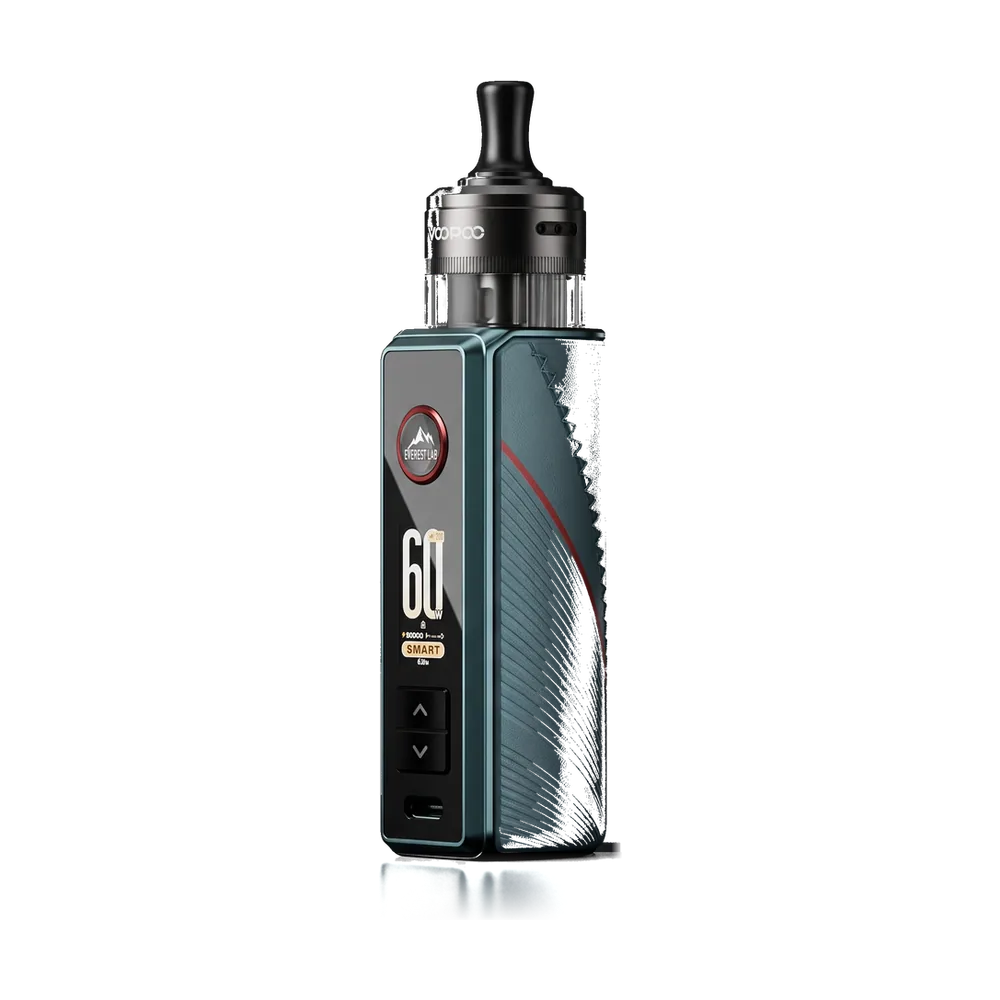
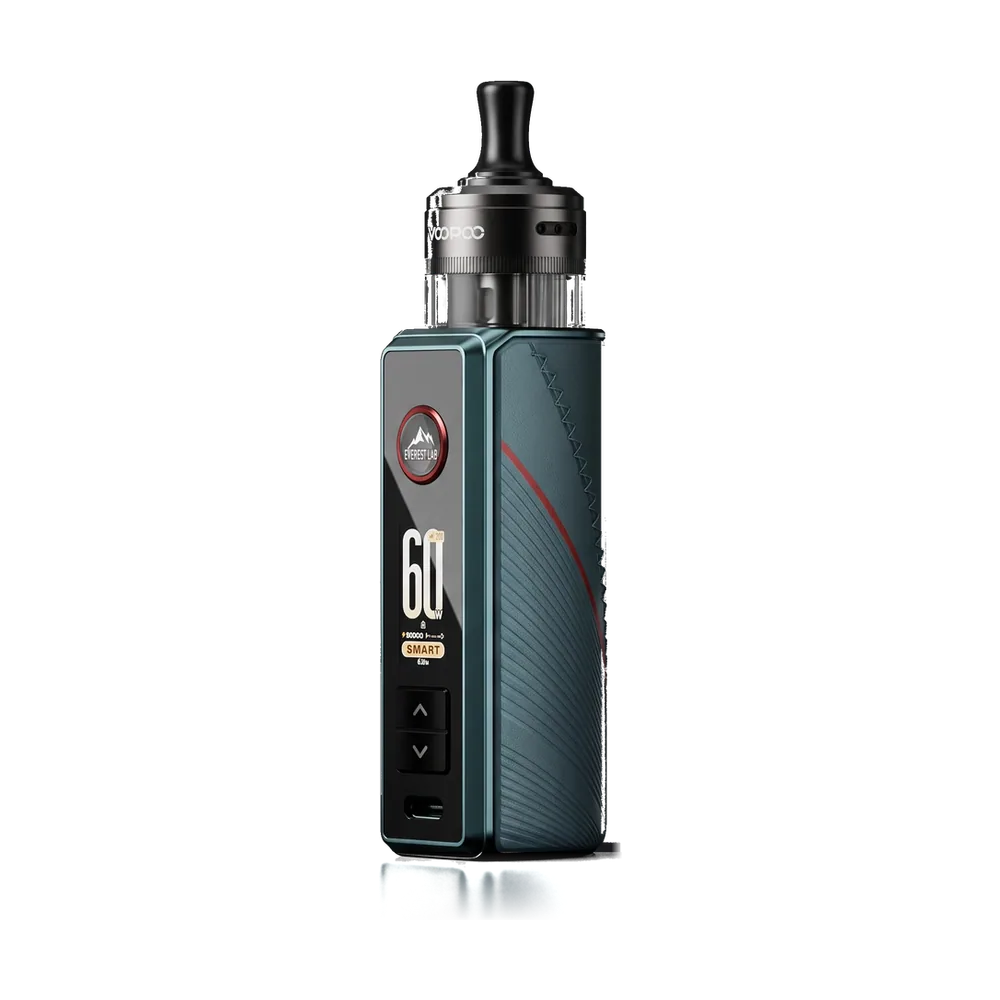
image: Drag S3 Brooklyn Gray re-keyed (side panel solid, matte2 --protect) + Cherry Pink specks cleared, line-up 2 rebuilt; comment no longer cites the unverified maker listing (checker #337)

Changed region(s): [[0.496, 0.558, 0.62, 0.868], [0.558, 0.341, 0.62, 0.527]]

diff --git a/src/data/products/voopoo.ts b/src/data/products/voopoo.ts
@@ -956,8 +956,9 @@ export const voopooProducts: Product[] = [
       { id: "green", name: "Green", swatchHex: "#6f7c69", image: { src: "/assets/products/drag-s3/variant-green-v6.webp", alt: "VOOPOO DRAG S3, Green", ownFloor: true } },
       { id: "brown", name: "Brown", swatchHex: "#7b4929", image: { src: "/assets/products/drag-s3/variant-brown-v5.webp", alt: "VOOPOO DRAG S3, Brown", ownFloor: true } },
       { id: "metal-gray", name: "Metal Gray", swatchHex: "#646b6c", image: { src: "/assets/products/drag-s3/variant-metal-gray-v5.webp", alt: "VOOPOO DRAG S3, Metal Gray", ownFloor: true } },
-      // 07/10 eve: the 3 colours VOOPOO added (vapeuk.co.uk + legionofvapers.com list the same 10; shop.voopoo.com's search listing
-      // marks them NEW — the maker page itself was not reachable from the research tools) — catalog completeness rule. Image 1 = legionofvapers.com's photo (vapevo has only the old 7), same S2 studio recipe;
+      // 07/10 eve: 3 more DRAG S3 colours (vapeuk.co.uk + legionofvapers.com list the same 10; the maker page was not reachable
+      // from the research tools) — catalog completeness rule. Image 1 = legionofvapers.com's photo (vapevo has only the old 7),
+      // same S2 studio recipe (Brooklyn Gray keyed with matte2.js --protect over its dark side panel; its photo shows no side badge);
       // swatches = the median side-panel colour of those photos (same method as the 7 above). Map: look-batch/drag-new3-map.js.
       { id: "lake-green", name: "Lake Green", swatchHex: "#345859", image: { src: "/assets/products/drag-s3/variant-lake-green-v5.webp", alt: "VOOPOO DRAG S3, Lake Green", ownFloor: true } },
       { id: "cherry-pink", name: "Cherry Pink", swatchHex: "#969eb0", image: { src: "/assets/products/drag-s3/variant-cherry-pink-v5.webp", alt: "VOOPOO DRAG S3, Cherry Pink", ownFloor: true } },
